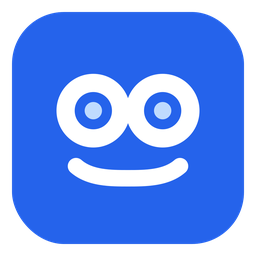
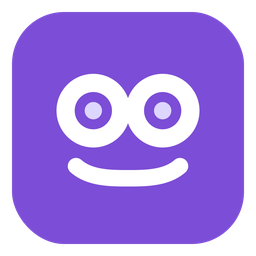
fix(windows): 桌面小鸮图标沿用应用默认紫色

diff --git a/scripts/release/build-icon.py b/scripts/release/build-icon.py
@@ -12,10 +12,10 @@ if len(shapes) != 5:
     raise ValueError("OwlLogo geometry changed; review the desktop icon export.")
 geometry = "\n".join(shapes)
 geometry = geometry.replace('strokeWidth=', 'stroke-width=').replace('strokeLinecap=', 'stroke-linecap=')
-geometry = geometry.replace('style={{ fill: "var(--li)" }}', 'fill="#bfdbfe"')
+geometry = geometry.replace('style={{ fill: "var(--li)" }}', 'fill="#ddd6fe"')
 svg = f'''<svg xmlns="http://www.w3.org/2000/svg" width="256" height="256" viewBox="0 0 256 256">
   <!-- Generated from frontend/src/components/OwlLogo.tsx by scripts/release/build-icon.py. -->
-  <rect x="12" y="12" width="232" height="232" rx="52" fill="#2563eb"/>
+  <rect x="12" y="12" width="232" height="232" rx="52" fill="#7c4dd6"/>
   <svg x="24" y="24" width="208" height="208" viewBox="0 0 24 24" fill="none" stroke="#ffffff">
     {geometry}
   </svg>

diff --git a/docs/runbooks/distribution-install.md b/docs/runbooks/distribution-install.md
@@ -27,7 +27,7 @@ curl -fsSL https://zhentai-sn.github.io/open-glaux/install.sh | sh
 
 Windows 推荐：[下载 Glaux-Setup.exe](https://github.com/zhentai-sn/open-glaux/releases/latest/download/Glaux-Setup.exe)，双击打开安装向导。可选择程序与数据目录，窗口显示目标盘实际可用空间、下载进度和安装日志。数据目录须放在程序目录之外，普通卸载才能保留。
 
-安装后桌面和开始菜单的蓝底小鸮 **Glaux** 图标打开控制窗口，可启动、打开浏览器、停止或卸载；关闭控制窗口和浏览器都不会停止后台服务。
+安装后桌面和开始菜单的紫底小鸮 **Glaux** 图标打开控制窗口，可启动、打开浏览器、停止或卸载；关闭控制窗口和浏览器都不会停止后台服务。
 
 Windows PowerShell（可选）：
 
@@ -62,7 +62,7 @@ GLAUX_VERSION=0.3.0 sh /tmp/glaux-install.sh
 
 Windows 推荐：[下载 Glaux-Setup.exe](https://github.com/zhentai-sn/open-glaux/releases/latest/download/Glaux-Setup.exe)，双击打开安装向导。可选择程序与数据目录，窗口显示目标盘实际可用空间、下载进度和安装日志。数据目录须放在程序目录之外，普通卸载才能保留。
 
-安装后桌面和开始菜单的蓝底小鸮 **Glaux** 图标打开控制窗口，可启动、打开浏览器、停止或卸载；关闭控制窗口和浏览器都不会停止后台服务。
+安装后桌面和开始菜单的紫底小鸮 **Glaux** 图标打开控制窗口，可启动、打开浏览器、停止或卸载；关闭控制窗口和浏览器都不会停止后台服务。
 
 Windows PowerShell（可选）：
 

diff --git a/docs/sdd/feats/24-distribution-install/README.md b/docs/sdd/feats/24-distribution-install/README.md
@@ -158,7 +158,7 @@ graph LR
 6. 控制窗口通过便携 Node 和已有启动器执行命令，隐藏命令行窗口；操作期间按钮禁用，成功或失败在窗口内反馈。卸载需确认，默认保留用户数据。
 7. `install.json` 在程序目录持久保存 `home`。显式 `GLAUX_HOME` 优先，其次安装记录，最后用户默认目录；新终端和桌面入口使用相同的数据目录。桌面入口直接绑定安装目录，不依赖当前终端 PATH。
 8. PowerShell 一键安装完成后，将 `bin` 同时加入用户 PATH 和当前进程 PATH，当前窗口即可调用 `glaux`。
-9. 桌面、开始菜单、控制窗口与安装 EXE 统一使用前端 `OwlLogo.tsx` 的小鸮标识，蓝色圆角底配浅色轮廓；Windows ICO 包含 16–256 px 多尺寸图层，安装时复制到程序目录 `bin`。
+9. 桌面、开始菜单、控制窗口与安装 EXE 统一使用前端 `OwlLogo.tsx` 的小鸮标识，紫色圆角底（`#7c4dd6`，沿用应用浅色主题默认智能体色）配浅色轮廓；Windows ICO 包含 16–256 px 多尺寸图层，安装时复制到程序目录 `bin`。
 10. Windows 安装 EXE 内嵌同版本安装脚本、图标资源和控制窗口源码。发布工作流编译 EXE、生成独立 SHA256 校验文件；落地页 Windows 页签提供下载按钮，仍保留命令行安装方式。
 
 ### 7.5 打包

diff --git a/launcher/windows/README.md b/launcher/windows/README.md
@@ -4,8 +4,8 @@
 
 ## 图标
 
-`glaux.svg` 的轮廓取自 `frontend/src/components/OwlLogo.tsx`，配蓝色圆角底。`glaux.png` 用于窗口标题区，`glaux.ico` 用于窗口、快捷方式及安装 EXE，包含 16、20、24、32、40、48、64、128、256 px 图层。
+`glaux.svg` 的轮廓取自 `frontend/src/components/OwlLogo.tsx`，配紫色圆角底（`#7c4dd6`，沿用应用浅色主题默认智能体色）。`glaux.png` 用于窗口标题区，`glaux.ico` 用于窗口、快捷方式及安装 EXE，包含 16、20、24、32、40、48、64、128、256 px 图层。
 
 修改前端小鸮轮廓后，在装有 Pillow 和 CairoSVG 的开发环境运行 `python3 scripts/release/build-icon.py`，一起提交三份导出资源。发布构建直接使用入库资源，无需安装图像转换依赖。
 
-安装 helper 将 PNG 和 ICO 复制到程序目录 `bin`，快捷方式引用该目录的 ICO。窗口关闭不停止后台服务；卸载沿用启动器的数据保留规则。
+安装 helper 将 PNG 和 ICO 复制到程序目录 `bin`，快捷方式引用该目录内按内容摘要命名的 ICO，颜色变更后无需清空 Windows 图标缓存。窗口关闭不停止后台服务；卸载沿用启动器的数据保留规则。
